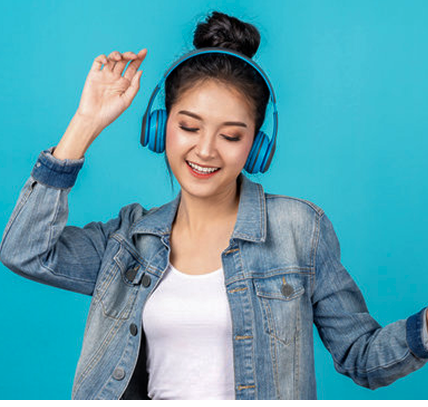
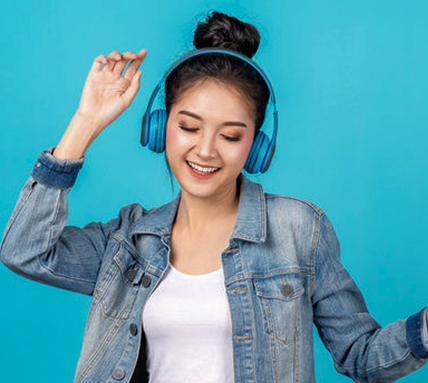
transicao completa

diff --git a/AppShell.xaml b/AppShell.xaml
@@ -13,9 +13,6 @@
     
             <ShellContent ContentTemplate="{DataTemplate views:InitialPage}"
                 Route="InitialPage" />
-            <ShellContent ContentTemplate="{DataTemplate views:RegisterPage}"
-                 Route="RegisterPage" />
-            <ShellContent ContentTemplate="{DataTemplate views:LoginPage}"
-                 Route="LoginPage" />
+     
 
 </Shell>

diff --git a/AppShell.xaml.cs b/AppShell.xaml.cs
@@ -7,7 +7,6 @@ namespace AppMusic
         public AppShell()
         {
             InitializeComponent();
-            Routing.RegisterRoute("InitialPage", typeof(InitialPage));
             Routing.RegisterRoute("RegisterPage", typeof(RegisterPage));
             Routing.RegisterRoute("LoginPage", typeof(LoginPage));
         }
